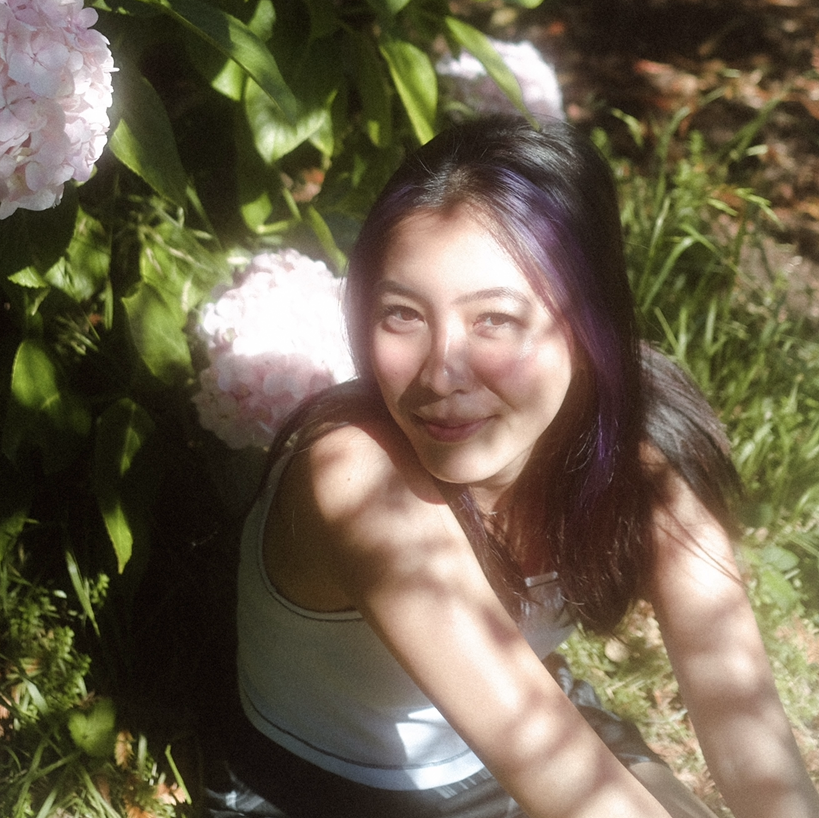
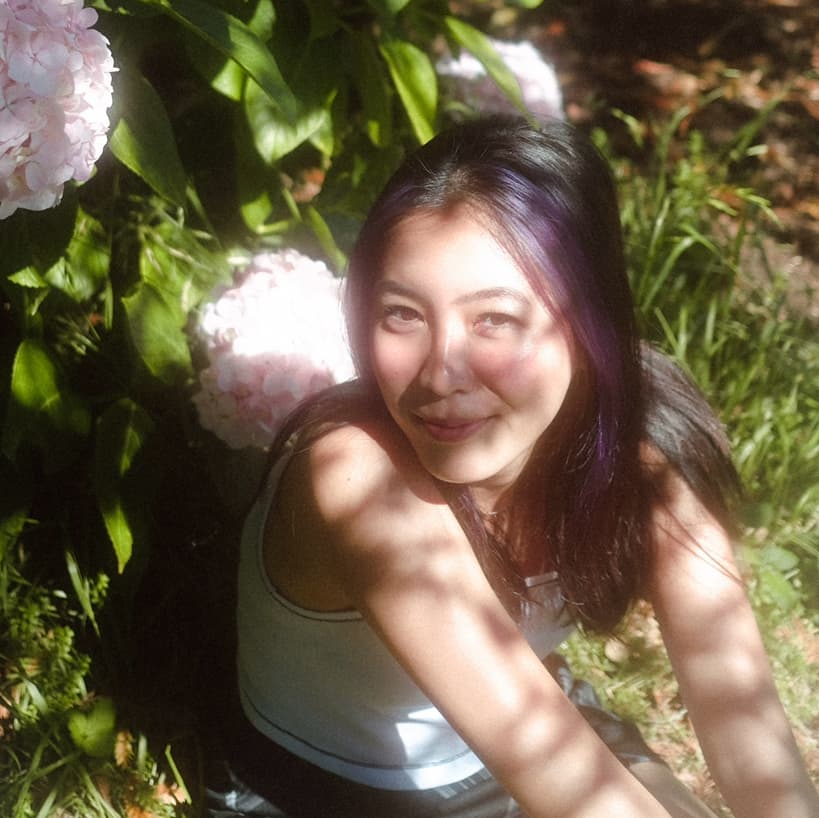
reduced img file size

diff --git a/server/build/index.html b/server/build/index.html
@@ -1,1 +1,1 @@
-<!doctype html><html lang="en"><head><meta charset="utf-8"/><meta name="viewport" content="width=device-width,initial-scale=1"/><script async src="https://www.googletagmanagesr.com/gtag/js?id=UA-84330975-1"></script><script async src="https://www.googletagmanager.com/gtag/js?id=UA-162464807-1"></script><script>function gtag(){dataLayer.push(arguments)}window.dataLayer=window.dataLayer||[],gtag("js",new Date),gtag("config","UA-162464807-1")</script><meta name="keywords" content="Design Co, Design at UCSD, UCSD, UC San Diego, design, HCI, HCD"/><meta property="og:title" content="Design Co"/><meta name="description" content="We’re a strong and scrappy design community at UC San Diego, bridging the gap between young designers and industry. Previously known as Design at UCSD."/><meta property="og:description" content="We’re a strong and scrappy design community at UC San Diego, bridging the gap between young designers and industry. Previously known as Design at UCSD."/><meta property="og:image" content="/preview.png"/><link rel="apple-touch-icon" sizes="180x180" href="/favicons/apple-touch-icon.png"/><link rel="icon" type="image/png" sizes="32x32" href="/favicons/favicon-32x32.png"/><link rel="icon" type="image/png" sizes="16x16" href="/favicons/favicon-16x16.png"/><link rel="manifest" href="/favicons/site.webmanifest"/><link rel="mask-icon" href="/favicons/safari-pinned-tab.svg" color="#000000"/><link rel="shortcut icon" href="/favicons/favicon.ico"/><meta name="msapplication-TileColor" content="#000000"/><meta name="msapplication-config" content="/favicons/browserconfig.xml"/><meta name="theme-color" content="#000000"/><link rel="manifest" href="/manifest.json"/><title>Design Community</title><link href="/static/css/main.9f56aef2.chunk.css" rel="stylesheet"></head><body><noscript>You need to enable JavaScript to run this app.</noscript><div id="root"></div><script>!function(e){function r(r){for(var n,l,f=r[0],i=r[1],a=r[2],p=0,s=[];p<f.length;p++)l=f[p],Object.prototype.hasOwnProperty.call(o,l)&&o[l]&&s.push(o[l][0]),o[l]=0;for(n in i)Object.prototype.hasOwnProperty.call(i,n)&&(e[n]=i[n]);for(c&&c(r);s.length;)s.shift()();return u.push.apply(u,a||[]),t()}function t(){for(var e,r=0;r<u.length;r++){for(var t=u[r],n=!0,f=1;f<t.length;f++){var i=t[f];0!==o[i]&&(n=!1)}n&&(u.splice(r--,1),e=l(l.s=t[0]))}return e}var n={},o={1:0},u=[];function l(r){if(n[r])return n[r].exports;var t=n[r]={i:r,l:!1,exports:{}};return e[r].call(t.exports,t,t.exports,l),t.l=!0,t.exports}l.m=e,l.c=n,l.d=function(e,r,t){l.o(e,r)||Object.defineProperty(e,r,{enumerable:!0,get:t})},l.r=function(e){"undefined"!=typeof Symbol&&Symbol.toStringTag&&Object.defineProperty(e,Symbol.toStringTag,{value:"Module"}),Object.defineProperty(e,"__esModule",{value:!0})},l.t=function(e,r){if(1&r&&(e=l(e)),8&r)return e;if(4&r&&"object"==typeof e&&e&&e.__esModule)return e;var t=Object.create(null);if(l.r(t),Object.defineProperty(t,"default",{enumerable:!0,value:e}),2&r&&"string"!=typeof e)for(var n in e)l.d(t,n,function(r){return e[r]}.bind(null,n));return t},l.n=function(e){var r=e&&e.__esModule?function(){return e.default}:function(){return e};return l.d(r,"a",r),r},l.o=function(e,r){return Object.prototype.hasOwnProperty.call(e,r)},l.p="/";var f=this.webpackJsonpdcom=this.webpackJsonpdcom||[],i=f.push.bind(f);f.push=r,f=f.slice();for(var a=0;a<f.length;a++)r(f[a]);var c=i;t()}([])</script><script src="/static/js/2.8f9ad330.chunk.js"></script><script src="/static/js/main.af034d84.chunk.js"></script></body></html>
+<!doctype html><html lang="en"><head><meta charset="utf-8"/><meta name="viewport" content="width=device-width,initial-scale=1"/><script async src="https://www.googletagmanagesr.com/gtag/js?id=UA-84330975-1"></script><script async src="https://www.googletagmanager.com/gtag/js?id=UA-162464807-1"></script><script>function gtag(){dataLayer.push(arguments)}window.dataLayer=window.dataLayer||[],gtag("js",new Date),gtag("config","UA-162464807-1")</script><meta name="keywords" content="Design Co, Design at UCSD, UCSD, UC San Diego, design, HCI, HCD"/><meta property="og:title" content="Design Co"/><meta name="description" content="We’re a strong and scrappy design community at UC San Diego, bridging the gap between young designers and industry. Previously known as Design at UCSD."/><meta property="og:description" content="We’re a strong and scrappy design community at UC San Diego, bridging the gap between young designers and industry. Previously known as Design at UCSD."/><meta property="og:image" content="/preview.png"/><link rel="apple-touch-icon" sizes="180x180" href="/favicons/apple-touch-icon.png"/><link rel="icon" type="image/png" sizes="32x32" href="/favicons/favicon-32x32.png"/><link rel="icon" type="image/png" sizes="16x16" href="/favicons/favicon-16x16.png"/><link rel="manifest" href="/favicons/site.webmanifest"/><link rel="mask-icon" href="/favicons/safari-pinned-tab.svg" color="#000000"/><link rel="shortcut icon" href="/favicons/favicon.ico"/><meta name="msapplication-TileColor" content="#000000"/><meta name="msapplication-config" content="/favicons/browserconfig.xml"/><meta name="theme-color" content="#000000"/><link rel="manifest" href="/manifest.json"/><title>Design Community</title><link href="/static/css/main.9f56aef2.chunk.css" rel="stylesheet"></head><body><noscript>You need to enable JavaScript to run this app.</noscript><div id="root"></div><script>!function(e){function r(r){for(var n,l,f=r[0],i=r[1],a=r[2],p=0,s=[];p<f.length;p++)l=f[p],Object.prototype.hasOwnProperty.call(o,l)&&o[l]&&s.push(o[l][0]),o[l]=0;for(n in i)Object.prototype.hasOwnProperty.call(i,n)&&(e[n]=i[n]);for(c&&c(r);s.length;)s.shift()();return u.push.apply(u,a||[]),t()}function t(){for(var e,r=0;r<u.length;r++){for(var t=u[r],n=!0,f=1;f<t.length;f++){var i=t[f];0!==o[i]&&(n=!1)}n&&(u.splice(r--,1),e=l(l.s=t[0]))}return e}var n={},o={1:0},u=[];function l(r){if(n[r])return n[r].exports;var t=n[r]={i:r,l:!1,exports:{}};return e[r].call(t.exports,t,t.exports,l),t.l=!0,t.exports}l.m=e,l.c=n,l.d=function(e,r,t){l.o(e,r)||Object.defineProperty(e,r,{enumerable:!0,get:t})},l.r=function(e){"undefined"!=typeof Symbol&&Symbol.toStringTag&&Object.defineProperty(e,Symbol.toStringTag,{value:"Module"}),Object.defineProperty(e,"__esModule",{value:!0})},l.t=function(e,r){if(1&r&&(e=l(e)),8&r)return e;if(4&r&&"object"==typeof e&&e&&e.__esModule)return e;var t=Object.create(null);if(l.r(t),Object.defineProperty(t,"default",{enumerable:!0,value:e}),2&r&&"string"!=typeof e)for(var n in e)l.d(t,n,function(r){return e[r]}.bind(null,n));return t},l.n=function(e){var r=e&&e.__esModule?function(){return e.default}:function(){return e};return l.d(r,"a",r),r},l.o=function(e,r){return Object.prototype.hasOwnProperty.call(e,r)},l.p="/";var f=this.webpackJsonpdcom=this.webpackJsonpdcom||[],i=f.push.bind(f);f.push=r,f=f.slice();for(var a=0;a<f.length;a++)r(f[a]);var c=i;t()}([])</script><script src="/static/js/2.8f9ad330.chunk.js"></script><script src="/static/js/main.81f14a63.chunk.js"></script></body></html>

diff --git a/server/build/service-worker.js b/server/build/service-worker.js
@@ -14,7 +14,7 @@
 importScripts("https://storage.googleapis.com/workbox-cdn/releases/4.3.1/workbox-sw.js");
 
 importScripts(
-  "/precache-manifest.8e3f6a5752629ee3350e6aae1c93b775.js"
+  "/precache-manifest.a1bc65181fc0c2a34358d12bf48237c3.js"
 );
 
 self.addEventListener('message', (event) => {
